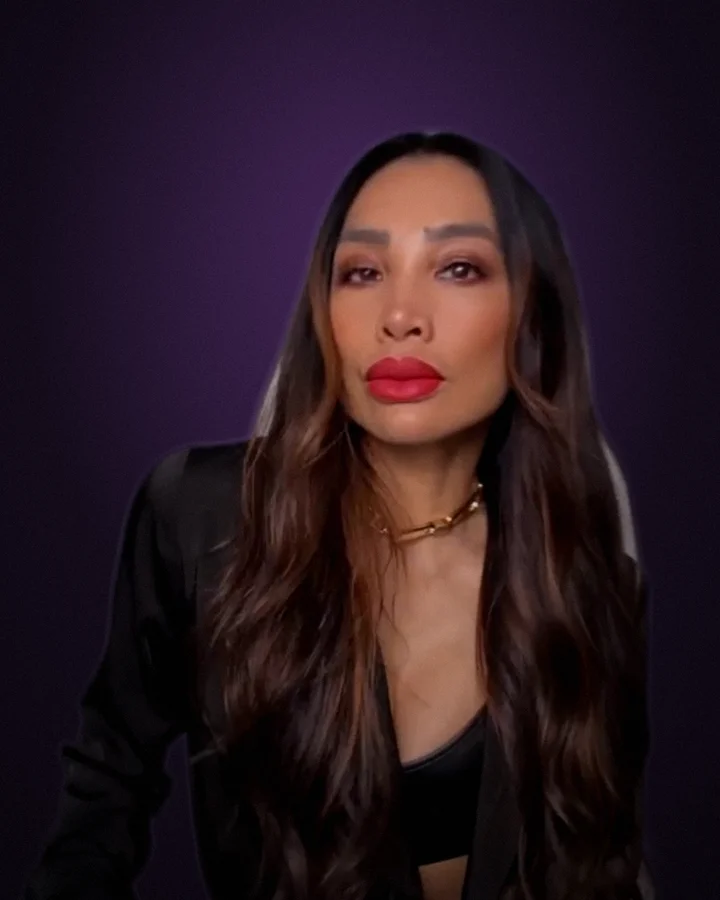
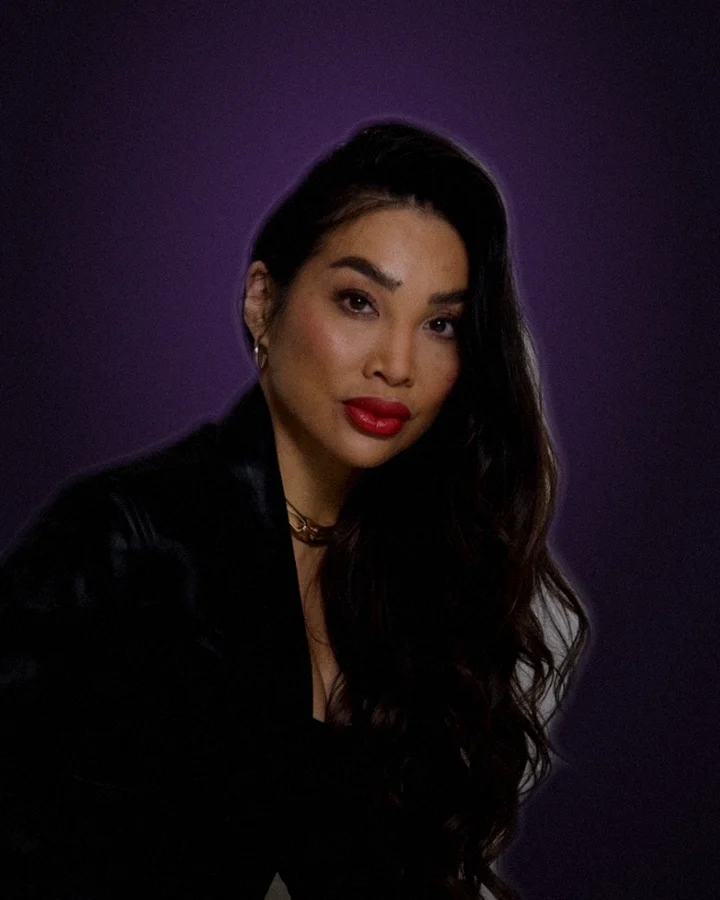
After Wednesday: closer portrait crop on plum backdrop
Claude-Session: https://claude.ai/code/session_01J82865C64sjcu1bCg4a5NP

diff --git a/public/after-wednesday/index.html b/public/after-wednesday/index.html
@@ -109,7 +109,7 @@ details[open] .plus{transform:rotate(45deg)}
 
 <div style="background:#0E0812">
 <section class="aw-who" style="max-width:1200px; margin:0 auto; padding:104px 6vw; display:flex; flex-wrap:wrap; gap:48px 72px; align-items:center">
-<div style="flex:0 1 280px; max-width:280px; border:1px solid #3D2648; padding:8px; background:#160D1F"><img src="/after-wednesday/chayenne-after-wednesday.webp" alt="Chayenne Mallari in a black satin blouse and red lip" width="720" height="900" loading="lazy"></div>
+<div style="flex:0 1 280px; max-width:280px; border:1px solid #3D2648; padding:8px; background:#160D1F"><img src="/after-wednesday/chayenne-after-wednesday.webp" alt="Chayenne Mallari in a black leather jacket with a red lip" width="720" height="900" loading="lazy"></div>
 <div style="flex:1.4 1 420px">
 <p style="margin:0 0 16px; font-size:12px; letter-spacing:0.18em; color:#A898B0">WHO'S MAKING THIS</p>
 <h2 style="margin:0 0 24px; font-weight:700; font-size:clamp(30px, 3.4vw, 46px); line-height:1; letter-spacing:-0.03em">MADE BY SOMEONE WHO <span class="iri">DOES THIS WORK TOO.</span></h2>
